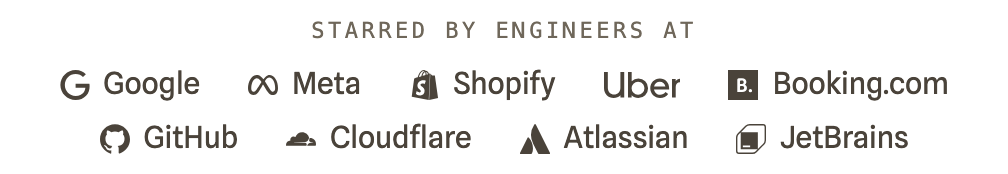
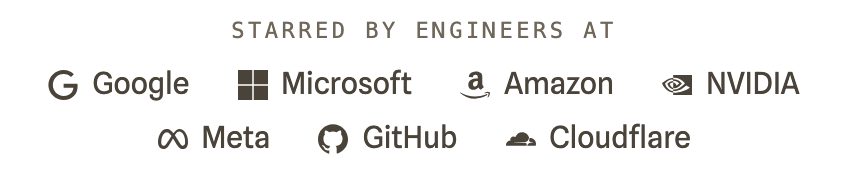
docs: update the starred-by companies in the README
The strip now reads Google, Microsoft, Amazon, NVIDIA, Meta, GitHub and Cloudflare, matching
zeroshot.sh. Microsoft and Amazon marks come from Simple Icons v11; the brand README records why.
The strip wraps 4 + 3 and renders at 424px wide.

Changed region(s): [[0.0307, 0.4023, 0.9505, 0.5747], [0.092, 0.6897, 0.9198, 0.8908], [0.2759, 0.1149, 0.7358, 0.2299]]

diff --git a/docs/brand/social/starred-by.html b/docs/brand/social/starred-by.html
@@ -1,7 +1,8 @@
 <!doctype html>
 <!-- Source for the README "starred by engineers at" strip; render steps are in docs/brand/README.md.
      Companies come from the self-reported GitHub company field of zeroshot stargazers, each profile
-     checked by hand, so the copy says "engineers at", never "used by". Marks are Simple Icons (CC0). -->
+     checked by hand, so the copy says "engineers at", never "used by". Marks are Simple Icons (CC0);
+     Microsoft and Amazon come from v11, before Simple Icons removed them. -->
 <html lang="en">
 <head>
 <meta charset="utf-8">
@@ -12,12 +13,10 @@
 html, body { margin: 0; background: transparent; }
 .strip { display: inline-flex; flex-direction: column; align-items: center; gap: 14px; padding: 10px 12px; }
 .label { font: 500 11px/1 ui-monospace, "SFMono-Regular", menlo, monospace; letter-spacing: 0.16em; text-transform: uppercase; color: var(--label); }
-/* Two rows (5 + 4) so the strip stays legible when GitHub scales it to a phone. */
-ul { list-style: none; margin: 0; padding: 0; display: flex; flex-wrap: wrap; justify-content: center; align-items: center; gap: 12px 24px; max-width: 480px; }
+/* Two rows (4 + 3) so the strip stays legible when GitHub scales it to a phone. */
+ul { list-style: none; margin: 0; padding: 0; display: flex; flex-wrap: wrap; justify-content: center; align-items: center; gap: 12px 24px; max-width: 400px; }
 li { display: inline-flex; align-items: center; gap: 7px; color: var(--name); font: 500 15px/1 "Spline Sans", sans-serif; letter-spacing: -0.005em; white-space: nowrap; }
 svg { width: 15px; height: 15px; fill: currentColor; flex: none; }
-/* Uber's mark is its name: it stands alone, sized to match the names' weight. */
-li.wordmark svg { width: auto; height: 13px; }
 </style>
 </head>
 <body>
@@ -25,14 +24,12 @@ li.wordmark svg { width: auto; height: 13px; }
 <div class="label">Starred by engineers at</div>
 <ul>
   <li><svg viewBox="0 0 24 24" aria-hidden="true"><path d="M12.48 10.92v3.28h7.84c-.24 1.84-.853 3.187-1.787 4.133-1.147 1.147-2.933 2.4-6.053 2.4-4.827 0-8.6-3.893-8.6-8.72s3.773-8.72 8.6-8.72c2.6 0 4.507 1.027 5.907 2.347l2.307-2.307C18.747 1.44 16.133 0 12.48 0 5.867 0 .307 5.387.307 12s5.56 12 12.173 12c3.573 0 6.267-1.173 8.373-3.36 2.16-2.16 2.84-5.213 2.84-7.667 0-.76-.053-1.467-.173-2.053H12.48z"/></svg>Google</li>
+  <li><svg viewBox="0 0 24 24" aria-hidden="true"><path d="M0 0v11.408h11.408V0zm12.594 0v11.408H24V0zM0 12.594V24h11.408V12.594zm12.594 0V24H24V12.594z"/></svg>Microsoft</li>
+  <li><svg viewBox="0 0 24 24" aria-hidden="true"><path d="M.045 18.02c.072-.116.187-.124.348-.022 3.636 2.11 7.594 3.166 11.87 3.166 2.852 0 5.668-.533 8.447-1.595l.315-.14c.138-.06.234-.1.293-.13.226-.088.39-.046.525.13.12.174.09.336-.12.48-.256.19-.6.41-1.006.654-1.244.743-2.64 1.316-4.185 1.726a17.617 17.617 0 01-10.951-.577 17.88 17.88 0 01-5.43-3.35c-.1-.074-.151-.15-.151-.22 0-.047.021-.09.051-.13zm6.565-6.218c0-1.005.247-1.863.743-2.577.495-.71 1.17-1.25 2.04-1.615.796-.335 1.756-.575 2.912-.72.39-.046 1.033-.103 1.92-.174v-.37c0-.93-.105-1.558-.3-1.875-.302-.43-.78-.65-1.44-.65h-.182c-.48.046-.896.196-1.246.46-.35.27-.575.63-.675 1.096-.06.3-.206.465-.435.51l-2.52-.315c-.248-.06-.372-.18-.372-.39 0-.046.007-.09.022-.15.247-1.29.855-2.25 1.82-2.88.976-.616 2.1-.975 3.39-1.05h.54c1.65 0 2.957.434 3.888 1.29.135.15.27.3.405.48.12.165.224.314.283.45.075.134.15.33.195.57.06.254.105.42.135.51.03.104.062.3.076.615.01.313.02.493.02.553v5.28c0 .376.06.72.165 1.036.105.313.21.54.315.674l.51.674c.09.136.136.256.136.36 0 .12-.06.226-.18.314-1.2 1.05-1.86 1.62-1.963 1.71-.165.135-.375.15-.63.045a6.062 6.062 0 01-.526-.496l-.31-.347a9.391 9.391 0 01-.317-.42l-.3-.435c-.81.886-1.603 1.44-2.4 1.665-.494.15-1.093.227-1.83.227-1.11 0-2.04-.343-2.76-1.034-.72-.69-1.08-1.665-1.08-2.94l-.05-.076zm3.753-.438c0 .566.14 1.02.425 1.364.285.34.675.512 1.155.512.045 0 .106-.007.195-.02.09-.016.134-.023.166-.023.614-.16 1.08-.553 1.424-1.178.165-.28.285-.58.36-.91.09-.32.12-.59.135-.8.015-.195.015-.54.015-1.005v-.54c-.84 0-1.484.06-1.92.18-1.275.36-1.92 1.17-1.92 2.43l-.035-.02zm9.162 7.027c.03-.06.075-.11.132-.17.362-.243.714-.41 1.05-.5a8.094 8.094 0 011.612-.24c.14-.012.28 0 .41.03.65.06 1.05.168 1.172.33.063.09.099.228.099.39v.15c0 .51-.149 1.11-.424 1.8-.278.69-.664 1.248-1.156 1.68-.073.06-.14.09-.197.09-.03 0-.06 0-.09-.012-.09-.044-.107-.12-.064-.24.54-1.26.806-2.143.806-2.64 0-.15-.03-.27-.087-.344-.145-.166-.55-.257-1.224-.257-.243 0-.533.016-.87.046-.363.045-.7.09-1 .135-.09 0-.148-.014-.18-.044-.03-.03-.036-.047-.02-.077 0-.017.006-.03.02-.063v-.06z"/></svg>Amazon</li>
+  <li><svg viewBox="0 0 24 24" aria-hidden="true"><path d="M8.948 8.798v-1.43a6.7 6.7 0 0 1 .424-.018c3.922-.124 6.493 3.374 6.493 3.374s-2.774 3.851-5.75 3.851c-.398 0-.787-.062-1.158-.185v-4.346c1.528.185 1.837.857 2.747 2.385l2.04-1.714s-1.492-1.952-4-1.952a6.016 6.016 0 0 0-.796.035m0-4.735v2.138l.424-.027c5.45-.185 9.01 4.47 9.01 4.47s-4.08 4.964-8.33 4.964c-.37 0-.733-.035-1.095-.097v1.325c.3.035.61.062.91.062 3.957 0 6.82-2.023 9.593-4.408.459.371 2.34 1.263 2.73 1.652-2.633 2.208-8.772 3.984-12.253 3.984-.335 0-.653-.018-.971-.053v1.864H24V4.063zm0 10.326v1.131c-3.657-.654-4.673-4.46-4.673-4.46s1.758-1.944 4.673-2.262v1.237H8.94c-1.528-.186-2.73 1.245-2.73 1.245s.68 2.412 2.739 3.11M2.456 10.9s2.164-3.197 6.5-3.533V6.201C4.153 6.59 0 10.653 0 10.653s2.35 6.802 8.948 7.42v-1.237c-4.84-.6-6.492-5.936-6.492-5.936z"/></svg>NVIDIA</li>
   <li><svg viewBox="0 0 24 24" aria-hidden="true"><path d="M6.915 4.03c-1.968 0-3.683 1.28-4.871 3.113C.704 9.208 0 11.883 0 14.449c0 .706.07 1.369.21 1.973a6.624 6.624 0 0 0 .265.86 5.297 5.297 0 0 0 .371.761c.696 1.159 1.818 1.927 3.593 1.927 1.497 0 2.633-.671 3.965-2.444.76-1.012 1.144-1.626 2.663-4.32l.756-1.339.186-.325c.061.1.121.196.183.3l2.152 3.595c.724 1.21 1.665 2.556 2.47 3.314 1.046.987 1.992 1.22 3.06 1.22 1.075 0 1.876-.355 2.455-.843a3.743 3.743 0 0 0 .81-.973c.542-.939.861-2.127.861-3.745 0-2.72-.681-5.357-2.084-7.45-1.282-1.912-2.957-2.93-4.716-2.93-1.047 0-2.088.467-3.053 1.308-.652.57-1.257 1.29-1.82 2.05-.69-.875-1.335-1.547-1.958-2.056-1.182-.966-2.315-1.303-3.454-1.303zm10.16 2.053c1.147 0 2.188.758 2.992 1.999 1.132 1.748 1.647 4.195 1.647 6.4 0 1.548-.368 2.9-1.839 2.9-.58 0-1.027-.23-1.664-1.004-.496-.601-1.343-1.878-2.832-4.358l-.617-1.028a44.908 44.908 0 0 0-1.255-1.98c.07-.109.141-.224.211-.327 1.12-1.667 2.118-2.602 3.358-2.602zm-10.201.553c1.265 0 2.058.791 2.675 1.446.307.327.737.871 1.234 1.579l-1.02 1.566c-.757 1.163-1.882 3.017-2.837 4.338-1.191 1.649-1.81 1.817-2.486 1.817-.524 0-1.038-.237-1.383-.794-.263-.426-.464-1.13-.464-2.046 0-2.221.63-4.535 1.66-6.088.454-.687.964-1.226 1.533-1.533a2.264 2.264 0 0 1 1.088-.285z"/></svg>Meta</li>
-  <li><svg viewBox="0 0 24 24" aria-hidden="true"><path d="M15.337 23.979l7.216-1.561s-2.604-17.613-2.625-17.73c-.018-.116-.114-.192-.211-.192s-1.929-.136-1.929-.136-1.275-1.274-1.439-1.411c-.045-.037-.075-.057-.121-.074l-.914 21.104h.023zM11.71 11.305s-.81-.424-1.774-.424c-1.447 0-1.504.906-1.504 1.141 0 1.232 3.24 1.715 3.24 4.629 0 2.295-1.44 3.76-3.406 3.76-2.354 0-3.54-1.465-3.54-1.465l.646-2.086s1.245 1.066 2.28 1.066c.675 0 .975-.545.975-.932 0-1.619-2.654-1.694-2.654-4.359-.034-2.237 1.571-4.416 4.827-4.416 1.257 0 1.875.361 1.875.361l-.945 2.715-.02.01zM11.17.83c.136 0 .271.038.405.135-.984.465-2.064 1.639-2.508 3.992-.656.213-1.293.405-1.889.578C7.697 3.75 8.951.84 11.17.84V.83zm1.235 2.949v.135c-.754.232-1.583.484-2.394.736.466-1.777 1.333-2.645 2.085-2.971.193.501.309 1.176.309 2.1zm.539-2.234c.694.074 1.141.867 1.429 1.755-.349.114-.735.231-1.158.366v-.252c0-.752-.096-1.371-.271-1.871v.002zm2.992 1.289c-.02 0-.06.021-.078.021s-.289.075-.714.21c-.423-1.233-1.176-2.37-2.508-2.37h-.115C12.135.209 11.669 0 11.265 0 8.159 0 6.675 3.877 6.21 5.846c-1.194.365-2.063.636-2.16.674-.675.213-.694.232-.772.87-.075.462-1.83 14.063-1.83 14.063L15.009 24l.927-21.166z"/></svg>Shopify</li>
-  <li class="wordmark" aria-label="Uber"><svg viewBox="0 7.97 24 8.06" aria-hidden="true"><path d="M0 7.97v4.958c0 1.867 1.302 3.101 3 3.101.826 0 1.562-.316 2.094-.87v.736H6.27V7.97H5.082v4.888c0 1.257-.85 2.106-1.947 2.106-1.11 0-1.946-.827-1.946-2.106V7.971H0zm7.44 0v7.925h1.13v-.725c.521.532 1.257.86 2.06.86a3.006 3.006 0 0 0 3.034-3.01 3.01 3.01 0 0 0-3.033-3.024 2.86 2.86 0 0 0-2.049.861V7.971H7.439zm9.869 2.038c-1.687 0-2.965 1.37-2.965 3 0 1.72 1.334 3.01 3.066 3.01 1.053 0 1.913-.463 2.49-1.233l-.826-.611c-.43.577-.996.847-1.664.847-.973 0-1.753-.7-1.912-1.64h4.697v-.373c0-1.72-1.222-3-2.886-3zm6.295.068c-.634 0-1.098.294-1.381.758v-.713h-1.131v5.774h1.142V12.61c0-.894.544-1.47 1.291-1.47H24v-1.065h-.396zm-6.319.928c.85 0 1.564.588 1.756 1.47H15.52c.203-.882.916-1.47 1.765-1.47zm-6.732.012c1.086 0 1.98.883 1.98 2.004a1.993 1.993 0 0 1-1.98 2.001A1.989 1.989 0 0 1 8.56 13.02a1.99 1.99 0 0 1 1.992-2.004z"/></svg></li>
-  <li><svg viewBox="0 0 24 24" aria-hidden="true"><path d="M24 0H0v24h24ZM8.575 6.563h2.658c2.108 0 3.473 1.15 3.473 2.898 0 1.15-.575 1.82-.91 2.108l-.287.263.335.192c.815.479 1.318 1.389 1.318 2.395 0 1.988-1.51 3.257-3.857 3.257H7.449V7.713c0-.623.503-1.126 1.126-1.15zm1.7 1.868c-.479.024-.694.264-.694.79v1.893h1.676c.958 0 1.294-.743 1.294-1.365 0-.815-.503-1.318-1.318-1.318zm-.096 4.36c-.407.071-.598.31-.598.79v2.251h1.868c.934 0 1.509-.55 1.509-1.533 0-.934-.599-1.509-1.51-1.509zm7.737 2.394c.743 0 1.341.599 1.341 1.342a1.34 1.34 0 0 1-1.341 1.341 1.355 1.355 0 0 1-1.341-1.341c0-.743.598-1.342 1.34-1.342z"/></svg>Booking.com</li>
   <li><svg viewBox="0 0 24 24" aria-hidden="true"><path d="M12 .297c-6.63 0-12 5.373-12 12 0 5.303 3.438 9.8 8.205 11.385.6.113.82-.258.82-.577 0-.285-.01-1.04-.015-2.04-3.338.724-4.042-1.61-4.042-1.61C4.422 18.07 3.633 17.7 3.633 17.7c-1.087-.744.084-.729.084-.729 1.205.084 1.838 1.236 1.838 1.236 1.07 1.835 2.809 1.305 3.495.998.108-.776.417-1.305.76-1.605-2.665-.3-5.466-1.332-5.466-5.93 0-1.31.465-2.38 1.235-3.22-.135-.303-.54-1.523.105-3.176 0 0 1.005-.322 3.3 1.23.96-.267 1.98-.399 3-.405 1.02.006 2.04.138 3 .405 2.28-1.552 3.285-1.23 3.285-1.23.645 1.653.24 2.873.12 3.176.765.84 1.23 1.91 1.23 3.22 0 4.61-2.805 5.625-5.475 5.92.42.36.81 1.096.81 2.22 0 1.606-.015 2.896-.015 3.286 0 .315.21.69.825.57C20.565 22.092 24 17.592 24 12.297c0-6.627-5.373-12-12-12"/></svg>GitHub</li>
   <li><svg viewBox="0 0 24 24" aria-hidden="true"><path d="M16.5088 16.8447c.1475-.5068.0908-.9707-.1553-1.3154-.2246-.3164-.6045-.499-1.0615-.5205l-8.6592-.1123a.1559.1559 0 0 1-.1333-.0713c-.0283-.042-.0351-.0986-.021-.1553.0278-.084.1123-.1484.2036-.1562l8.7359-.1123c1.0351-.0489 2.1601-.8868 2.5537-1.9136l.499-1.3013c.0215-.0561.0293-.1128.0147-.168-.5625-2.5463-2.835-4.4453-5.5499-4.4453-2.5039 0-4.6284 1.6177-5.3876 3.8614-.4927-.3658-1.1187-.5625-1.794-.499-1.2026.119-2.1665 1.083-2.2861 2.2856-.0283.31-.0069.6128.0635.894C1.5683 13.171 0 14.7754 0 16.752c0 .1748.0142.3515.0352.5273.0141.083.0844.1475.1689.1475h15.9814c.0909 0 .1758-.0645.2032-.1553l.12-.4268zm2.7568-5.5634c-.0771 0-.1611 0-.2383.0112-.0566 0-.1054.0415-.127.0976l-.3378 1.1744c-.1475.5068-.0918.9707.1543 1.3164.2256.3164.6055.498 1.0625.5195l1.8437.1133c.0557 0 .1055.0263.1329.0703.0283.043.0351.1074.0214.1562-.0283.084-.1132.1485-.204.1553l-1.921.1123c-1.041.0488-2.1582.8867-2.5527 1.914l-.1406.3585c-.0283.0713.0215.1416.0986.1416h6.5977c.0771 0 .1474-.0489.169-.126.1122-.4082.1757-.837.1757-1.2803 0-2.6025-2.125-4.727-4.7344-4.727"/></svg>Cloudflare</li>
-  <li><svg viewBox="0 0 24 24" aria-hidden="true"><path d="M7.12 11.084a.683.683 0 00-1.16.126L.075 22.974a.703.703 0 00.63 1.018h8.19a.678.678 0 00.63-.39c1.767-3.65.696-9.203-2.406-12.52zM11.434.386a15.515 15.515 0 00-.906 15.317l3.95 7.9a.703.703 0 00.628.388h8.19a.703.703 0 00.63-1.017L12.63.38a.664.664 0 00-1.196.006z"/></svg>Atlassian</li>
-  <li><svg viewBox="0 0 24 24" aria-hidden="true"><path d="M2.345 23.997A2.347 2.347 0 0 1 0 21.652V10.988C0 9.665.535 8.37 1.473 7.433l5.965-5.961A5.01 5.01 0 0 1 10.989 0h10.666A2.347 2.347 0 0 1 24 2.345v10.664a5.056 5.056 0 0 1-1.473 3.554l-5.965 5.965A5.017 5.017 0 0 1 13.007 24v-.003H2.345Zm8.969-6.854H5.486v1.371h5.828v-1.371ZM3.963 6.514h13.523v13.519l4.257-4.257a3.936 3.936 0 0 0 1.146-2.767V2.345c0-.678-.552-1.234-1.234-1.234H10.989a3.897 3.897 0 0 0-2.767 1.145L3.963 6.514Zm-.192.192L2.256 8.22a3.944 3.944 0 0 0-1.145 2.768v10.664c0 .678.552 1.234 1.234 1.234h10.666a3.9 3.9 0 0 0 2.767-1.146l1.512-1.511H3.771V6.706Z"/></svg>JetBrains</li>
 </ul>
 </div>
 </body>

diff --git a/docs/brand/README.md b/docs/brand/README.md
@@ -18,8 +18,9 @@ handwritten headings and diagrams, yellow notes, and the company mascot.
   duplicate sticky note. This is a raster asset, separate from the HTML exports.
 - `social/starred-by.html`: the "Starred by engineers at" strip under the README badges. Its
   companies come from the self-reported GitHub company field of zeroshot stargazers, each profile
-  checked by hand, so the copy says "engineers at", never "used by". Marks are Simple Icons (CC0);
-  brands that asked Simple Icons to remove their marks stay off. `starred-by-light.png` and
+  checked by hand, so the copy says "engineers at", never "used by". Marks are Simple Icons (CC0).
+  Simple Icons later removed Microsoft and Amazon over those companies' trademark terms; the strip
+  keeps their v11 marks on purpose. `starred-by-light.png` and
   `starred-by-dark.png` are its transparent 2× exports; re-render steps are below.
 - `assets/`: local fonts, font licenses, and the website mascot. Rendering needs
   no network requests.

diff --git a/README.md b/README.md
@@ -24,7 +24,7 @@
 
 &nbsp;
 
-<a href="https://github.com/the-open-engine/zeroshot/stargazers"><picture><source media="(prefers-color-scheme: dark)" srcset="docs/brand/social/starred-by-dark.png"><img alt="Starred by engineers at Google, Meta, Shopify, Uber, Booking.com, GitHub, Cloudflare, Atlassian and JetBrains" src="docs/brand/social/starred-by-light.png" width="504"></picture></a>
+<a href="https://github.com/the-open-engine/zeroshot/stargazers"><picture><source media="(prefers-color-scheme: dark)" srcset="docs/brand/social/starred-by-dark.png"><img alt="Starred by engineers at Google, Microsoft, Amazon, NVIDIA, Meta, GitHub and Cloudflare" src="docs/brand/social/starred-by-light.png" width="424"></picture></a>
 
 </div>
 
